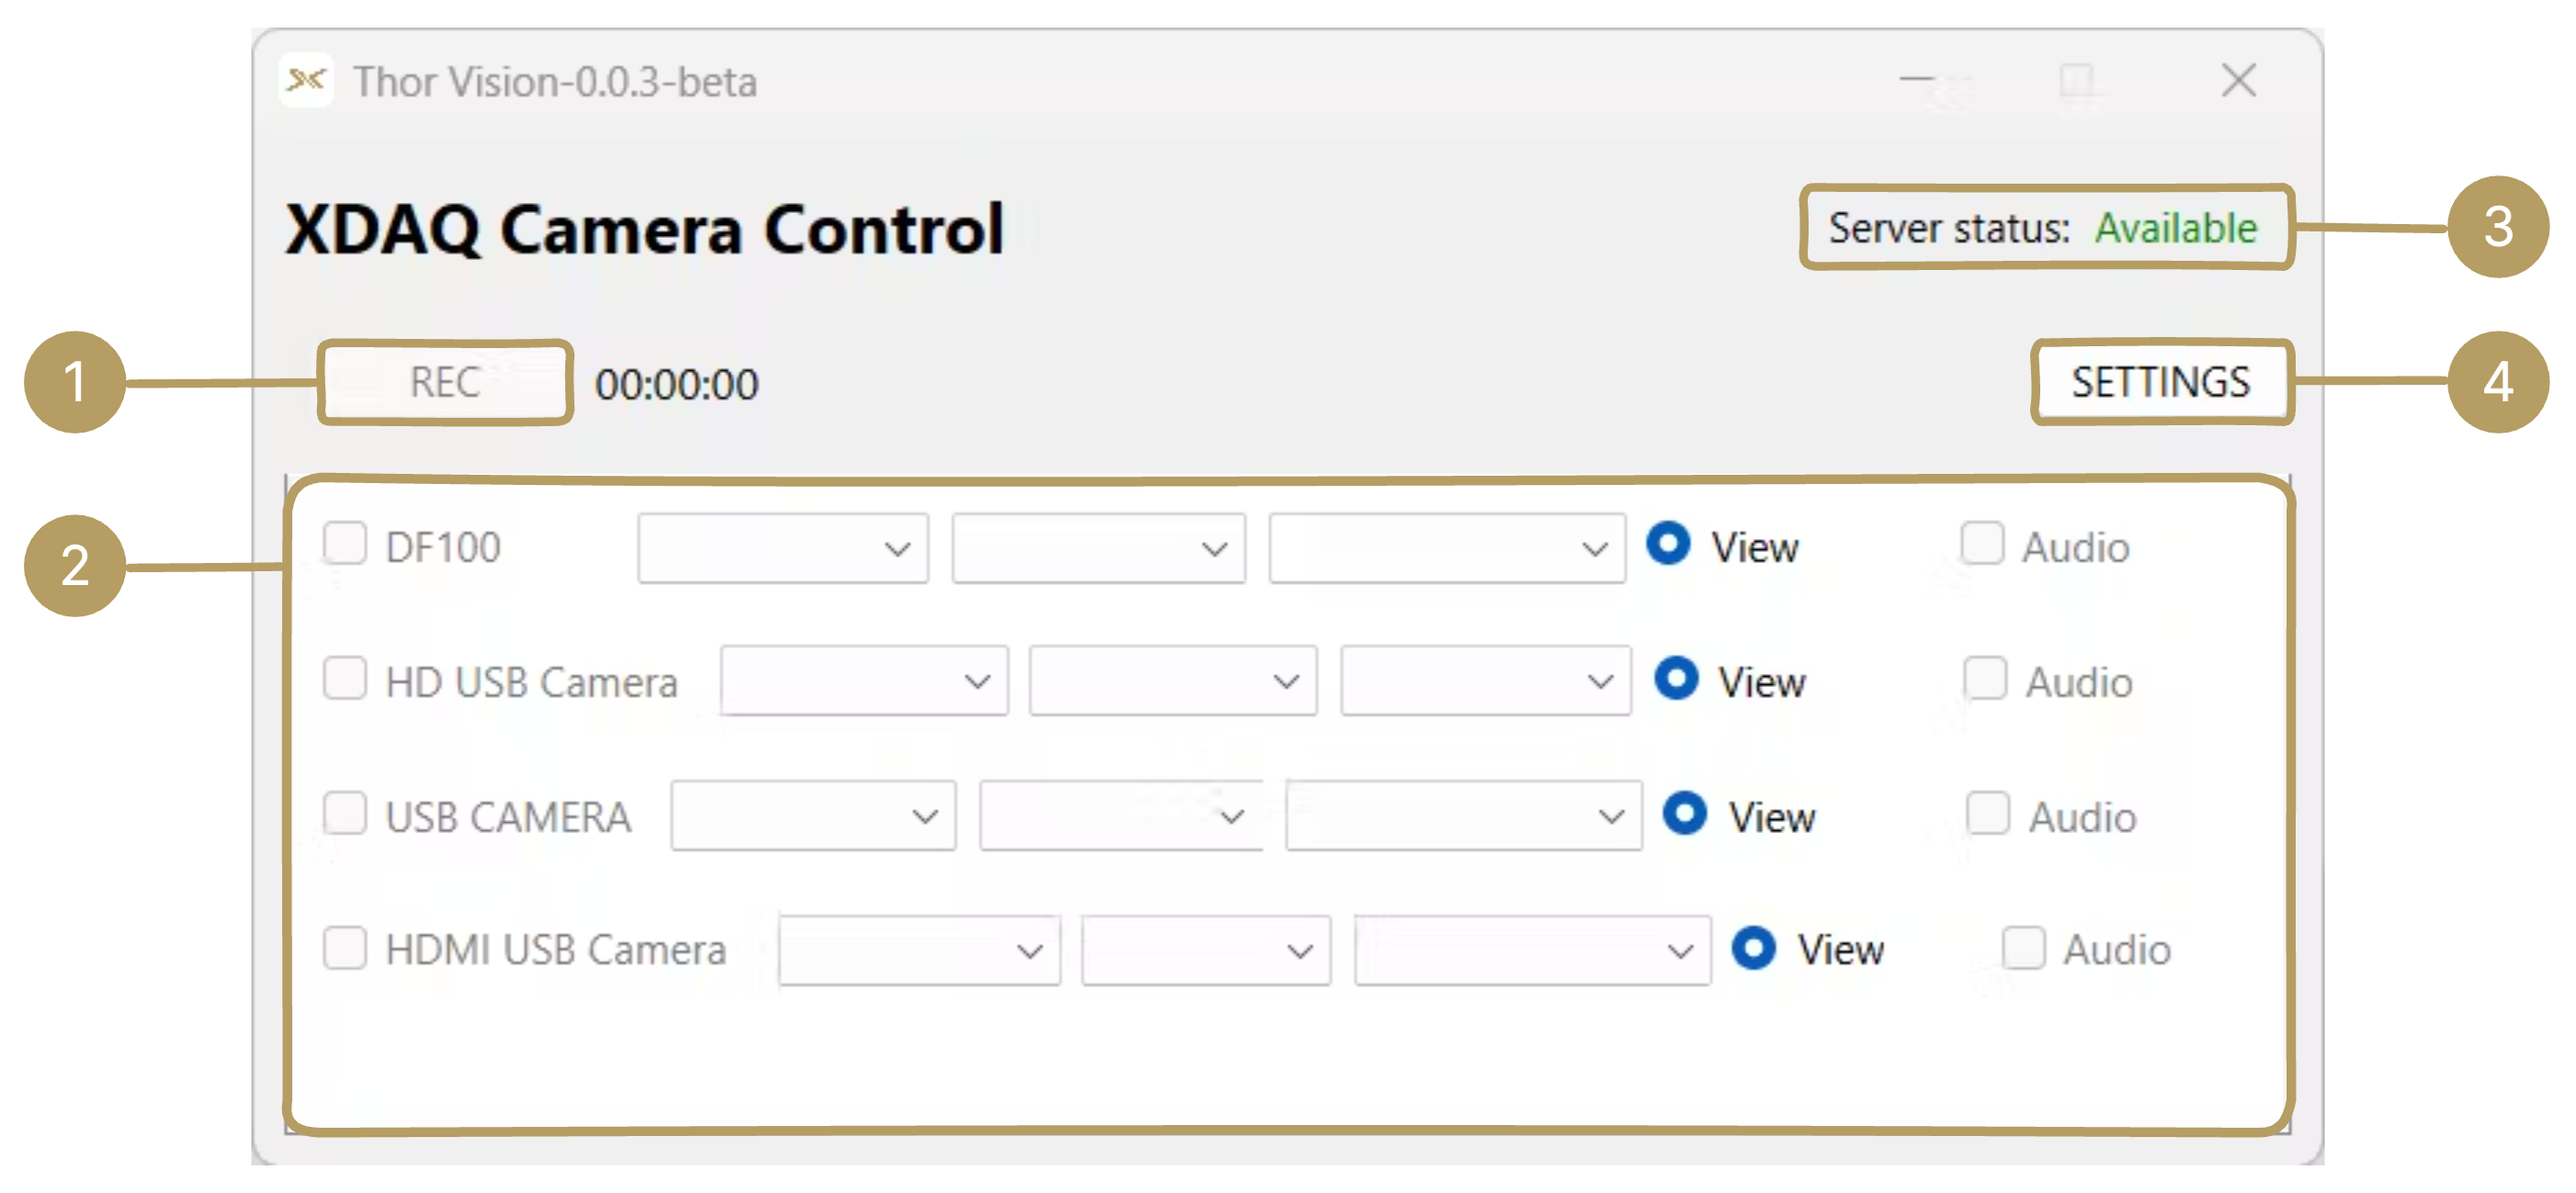
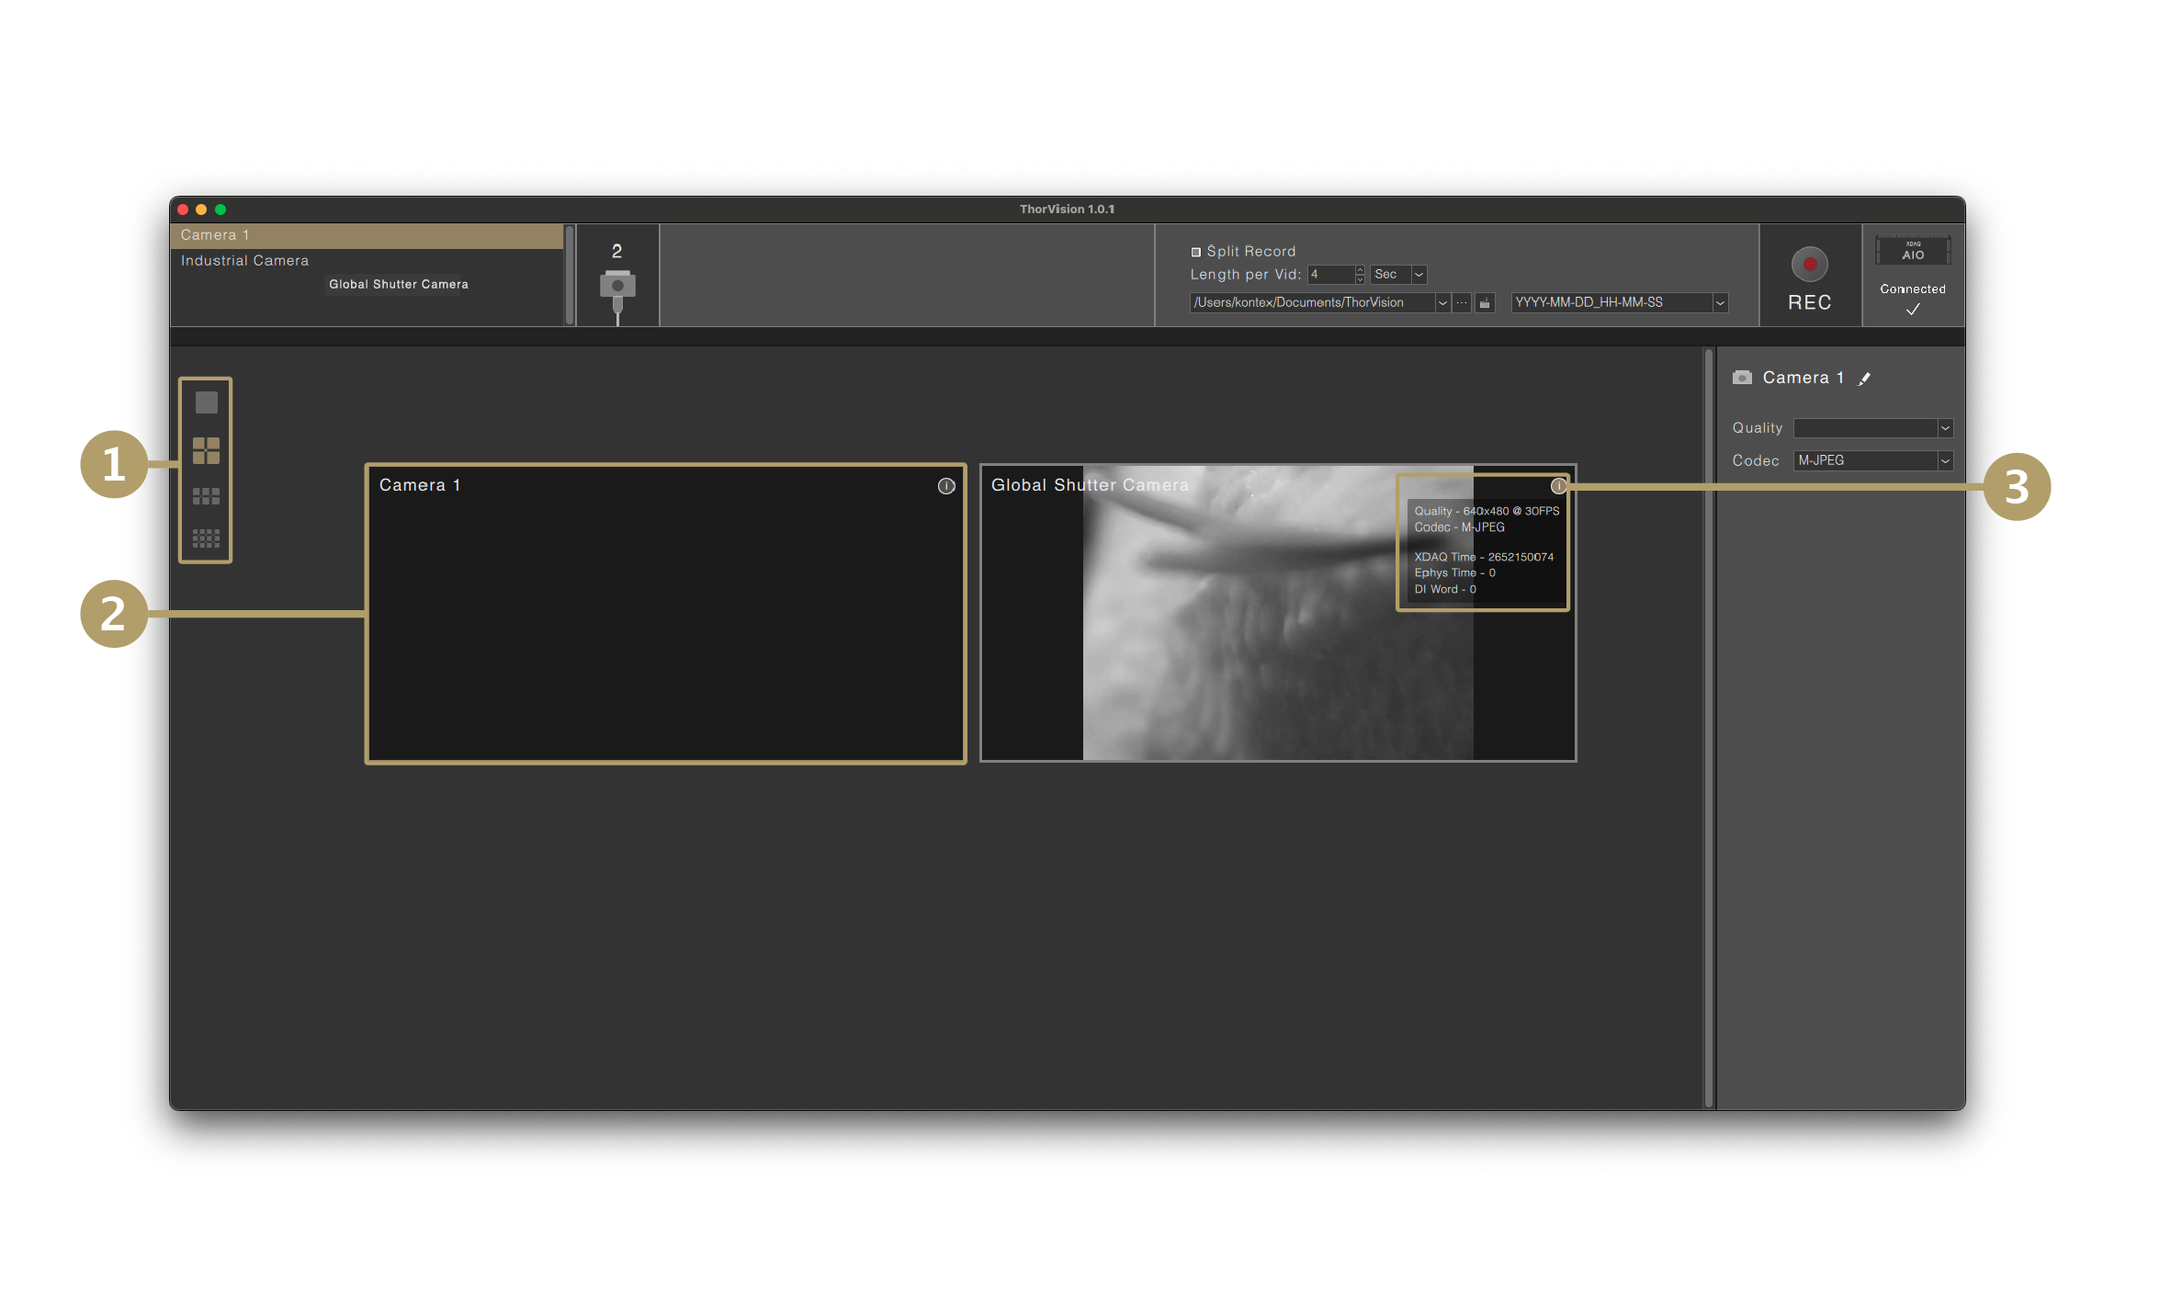
Update user manual

diff --git a/docs/docs/extra.css b/docs/docs/extra.css
@@ -1,3 +1,8 @@
 .icon-large {
     font-size: 5.4em;
 }
+.center-block {
+  display: flex;
+  flex-direction: column;
+  align-items: center;
+}

diff --git a/docs/docs/user-manual.md b/docs/docs/user-manual.md
@@ -1,5 +1,3 @@
-# User Manual
-
 ## Overview
 
 ThorVision is a GUI app designed for seamless control and video capture from USB cameras on the [XDAQ AIO](https://www.kontex.io/xdaq). This user manual provides instructions on how to use the features of the application effectively.
@@ -51,10 +49,10 @@ graph LR;
 
 ## Hardware Requirements
 
-- **PC**: Windows with a Thunderbolt 3.0 port or higher.
+- **PC**: Mac(Apple silicon only) and Windows with a Thunderbolt 3.0 port(or higher).
 - [**XDAQ AIO**](https://www.kontex.io/xdaq).
 - **Thunderbolt 3.0 Cable** (or higher).
-- [**USB Cameras**](usb-cameras.md): Compatible with XDAQ.
+- [**UVC(USB Video Class) Cameras**](usb-cameras.md)
 
 /// note | Note
 Support for Ubuntu is in development (coming soon)
@@ -64,127 +62,184 @@ Support for Ubuntu is in development (coming soon)
 
 ## Installation
 
-[:fontawesome-brands-windows:](https://github.com/kontex-neuro/ThorVision/releases/download/v0.0.1/XDAQ-VC-0.0.1-win64.exe){ .icon-large }
-[:fontawesome-brands-apple:](){ .icon-large } (coming soon)
+[:fontawesome-brands-windows:](https://github.com/kontex-neuro/ThorVision/releases/download/v1.0.1/ThorVision-1.0.1-win64.exe){ .icon-large }
+[:fontawesome-brands-apple:](https://github.com/kontex-neuro/ThorVision/releases/download/v1.0.1/ThorVision-1.0.1-mac-arm64.dmg){ .icon-large }
 [:fontawesome-brands-ubuntu:](){ .icon-large } (coming soon)
 
 ---
 
-## User Interface Overview
+## Panels
+
+<!-- ## Panels -->
+
+!["No Camera UI Overview"](no-camera-ui-overview.png)
+
+### **1. Camera Status:**
+
+Display the list and number of currently connected cameras. Select a camera from the list to access its settings in the Camera Specification Panel. 
+
+### **2. Overall Recording Settings & Control:**
+
+- Saving Options: Choose between:
+
+    - Continuous: Record a single, uninterrupted video file for the entire recording session.
+    - Split Record: Record multiple video files, each divided into predefined segments (e.g., 5 seconds, 10 seconds).
+
+- Record Path: **Click ...** to select the folder for saving recordings, or manually enter the directory path.
+
+- Folder Name: Choose between:
+
+    - Automatically generated: folder name in **YYYY-MM-DD_HH-MM-SS** format.
+    - Custom: Specify a custom folder name.
+
+/// note | Note
+The default record path is:
+
+Windows: `C:/Users/<user_name>/Documents/ThorVision/`
+
+macOS: `/Users/<user_name>/Documents/ThorVision/`
+///
+
+### **3. XDAQ Status:**
+
+- Connecting...:is displayed when XDAQ is not yet connected or currently connecting.
+- Connected: is displayed when XDAQ is connected.
+
+The status transition may take some time, please be patient.
+
+### **4. Camera Specification Panel:**
+
+Edit camera names, configure the recording quality, frame rate, and codec in this area.
+
+---
+
+## Camera Feed
 
 !["UI Overview"](ui-overview.png)
 
-### 1. Record
+### **1. Camera Views:**
 
-Press the button to record videos with embedded XDAQ metadata.
+View stream windows under different scales.
 
-### 2. Camera List
-
-View and live stream cameras on the XDAQ AIO.
-
-### 3. Server status
-
-Display current server status on the XDAQ AIO.
-
-### 4. Record Settings
-
-Open the record settings window for advanced configuration options.
-
----
-
-## Record Settings
-
-!["Record Settings"](record-settings.png)
-
-### 1. Cameras Recording Settings
-
-Choose either `Continuous` or `Trigger on` to record camera.
-
-- **Continuous**: Start recording by pressing the `REC` button.
-- **Trigger on**: Start recording from hardware TTL or via the [**Brainwave simulator**](https://www.kontex.io/product/Brainwave-Simulator).
-
-/// note | Note
-`Trigger on` option is in development (coming soon)
-///
-
-### 2. Record Path/Folder Name
-
-- **Record Path**: Click `...` to select the folder for saving recordings, or manually enter the directory path.
-- **Folder Name**: Choose between:
-  - **Auto** Automatically generated folder name in `YYYY-MM-DD_HH-MM-SS` format.
-  - **Custom**: Specify a custom folder name.
-
-/// note | Note
-The default record directory is `C:/Users/<user_name>/Documents/ThorVision/`.
-///
-
-### 3. Record Mode
-
-Choose either `Continuous` or `Split record into` to record cameras.
-
-- **Continuous**: Record a single, uninterrupted video file for the entire recording session.
-- **Split record into**: Record multiple video files, each split into predefined segments (e.g., 5 seconds, 10 seconds).
-
-<!-- ### 4. Extract Metadata
-
-Enable this option to store [XDAQ metadata](metadata.md) in a separate file for post-processing. -->
-
----
-
-## Camera Control
-
-!["Camera Control"](camera-control.png)
-
-### 1. Stream Window
+### **2. Live Preview Window:**
 
 View live streams from cameras on the XDAQ AIO.
 
-### 2. [XDAQ Metadata](xdaq-metadata.md)
+### **3. Information Icon:**
 
-Display live metadata from cameras on the XDAQ AIO.
-
-### 3. Camera Control Options
-
-!["Camera Control Options"](camera-control-options.png)
-
-#### 1. Start/Stop Stream
-
-Start or Stop the live stream from the camera.
-
-#### 2. Resolution
-
-Select a compatible resolution for the camera.
-
-#### 3. FPS
-
-Select a compatible frame rate (FPS) for the camera.
-
-#### 4. Codec
-
-Select a compatible codec for the camera.
-
-/// tip | Tip
-Each camera has its own unique capabilities. Dimmed options for resolution, FPS, and codec indicate that the currently selected camera does not support these settings. However, these options remain **clickable**, and selecting them will reset the camera's current settings.
-///
-
-#### 5. View
-
-Toggle to show or hide the camera view.
-
-#### 6. Audio
-
-/// note | Note
-`Audio` option is in development (coming soon)
-///
+Click to display live metadata and configured recording settings from cameras on the XDAQ AIO
 
 ---
 
-## Log files
+## Setup Guide
 
-The app records all user actions, and logs are flushed every 10 seconds.
+### **1. Pre-Launch Checklist**
 
-Locate the log files:
+1. Ensure a Thunderbolt 3 or higher cable connects the XDAQ and the Mac computer. 
+2. Verify that the connectors are firmly seated.
+3. Confirm all Cameras are firmly connected to the XDAQ.
+4. Connect a Brainwave simulator to the XDAQ AIO using a 3.5mm jack to BNC wire.
+5. Connect the 3.5mm Jack to the "Pulse" port on the Brainwave simulator.
+6. Connect the BNC to the Digital In port on the front panel of the XDAQ AIO.
 
-- Windows: `C:\ProgramData\ThorVision\`
-- macOS: `~/Library/Application Support/ThorVision/`
-- Ubuntu: coming soon.
+### **2. Launch Sequence**
+
+Follow this exact order:
+
+1. Power on XDAQ.
+2. Launch Open Ephys GUI or Intan RHX first.
+3. Wait until the chosen application finishes its initialization.
+4. Launch ThorVision.
+5. Allow 1–2 minutes for ThorVision to connect.
+6. If the connection fails, retry the entire launch sequence from the start.
+
+### **3. Camera Setup**
+
+1. Once ThorVision connects to the XDAQ, check the camera status panel to confirm all connected cameras are listed. If not, check the cable connections.
+
+    - **INFO:** Before assigning recording quality and codec, you can still hot-plug cameras to the XDAQ. It may take a few seconds for the XDAQ to recognize a newly connected camera.
+
+    !["Camera Setup 1"](camera-setup-1.png)
+
+2. On the right panel in ThorVision, assign a unique name, recording encoding, and quality to the selected camera from the XDAQ Status panel. **Before recording, make sure every camera on the list has both a quality setting and a codec assigned.**
+
+    - **Tip:** If the preview stream doesn't appear within 10 seconds, re-select the same Quality/Encoding settings to refresh the view.
+    - **Notice:** If the camera-naming function behaves abnormally, restart the ThorVision interface and try again.
+
+/// warning | IMPORTANT
+- We strongly recommend keeping your Industrial Camera’s resolution at or below Full HD and the frame rate at or below 30 FPS. For Global Shutter Cameras, the frame rate should not exceed 420 FPS. Exceeding these limits may cause lag or dropped frames.
+
+- **NEVER assign the same name to different cameras.** This can cause file overwrites during recording sessions.
+
+- **Do NOT change encoding/quality once the preview has started.** This can cause the camera to freeze.
+///
+
+<div class="center-block">
+  <img src="../camera-setup-2.png" alt="Camera Setup 2">
+  <ol>
+    <li>Select a camera you want to edit.</li>
+    <li>Assign a unique name.</li>
+    <li>Configure quality &amp; encoding.</li>
+  </ol>
+</div>
+
+<ol start="3">
+  <li>
+    To view camera activities (e.g., DI triggers), press the <strong>”Information Icon”</strong> in each preview window. 
+    The <strong>DI word</strong> will show the channel number when the voltage in a certain Digital In BNC port is pulled to high.
+    <ul>
+      <li><strong>INFO:</strong> If the timestamp stops renewing or stays at zero during preview or recording, the camera is offline. Repeat the Launch Sequence.</li>
+    </ul>
+    <img src="../camera-setup-3.png" alt="Camera Setup 3">
+  </li>
+  <li>
+    Check the recording settings (e.g., file interval, saving location, file name), and then press Record.
+  </li>
+</ol>
+
+**IMPORTANT:** When restarting a recording session, WAIT 5 SECONDS after stopping before pressing the record button again.
+
+Do not consecutively press the button more than one time!
+
+### **4. Quick Troubleshooting**
+
+- No Preview After Initial Setup?
+    - Re-select the same encoding and quality once.
+    - If the issue persists, repeat the Launch Sequence.
+
+- Lost Connection?
+    - Confirm all cables are secure, then wait for the XDAQ status to update (approx. 6 seconds).
+    - If the issue persists, repeat the Launch Sequence.
+
+- Preview Frozen After a Mid-Demo Change?
+    - Repeat the Launch Sequence.
+
+---
+
+## Recording Tips
+
+- Configure the camera’s recording settings to view the real time camera feed. The same settings will also be applied to video recording.
+
+!["Camera Setup 4"](camera-setup-4.png)
+
+- Press the REC button to start recording on all connected cameras simultaneously. The Stop Recording button works the same way. In the pop-up window, you can review the recording specifications. Use unique camera names only.
+
+!["Camera Setup 5"](camera-setup-5.png)
+
+- If XDAQ is disconnected, ThorVision will automatically stop recording.
+
+!["Camera Setup 6"](camera-setup-6.png)
+
+- You must stop recording before closing the ThorVision app.
+
+!["Camera Setup 7"](camera-setup-7.png)
+
+---
+
+## **Golden Rules (TL; DR)**
+
+- Launch Order is Critical: XDAQ >>>OE GUI/RHX >>>ThorVision.
+- Set the encoding/quality once and never change it during the session.
+- Use unique camera names only.
+- Do not hot-plug cameras while recording.
+- Wait at least 5 seconds after stopping a recording before starting a new one.
